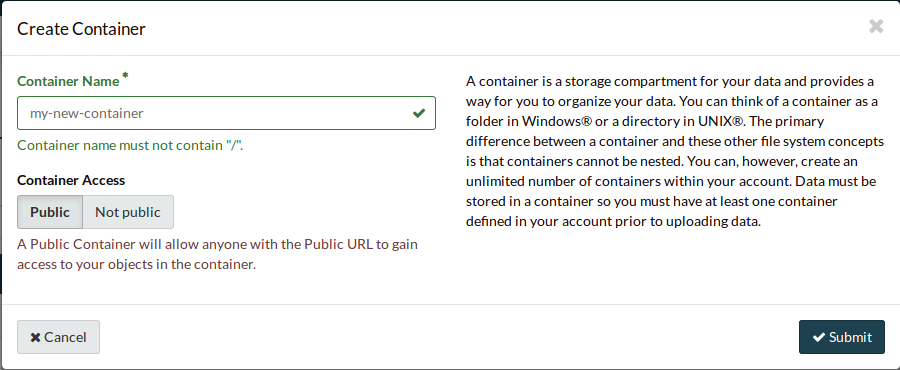
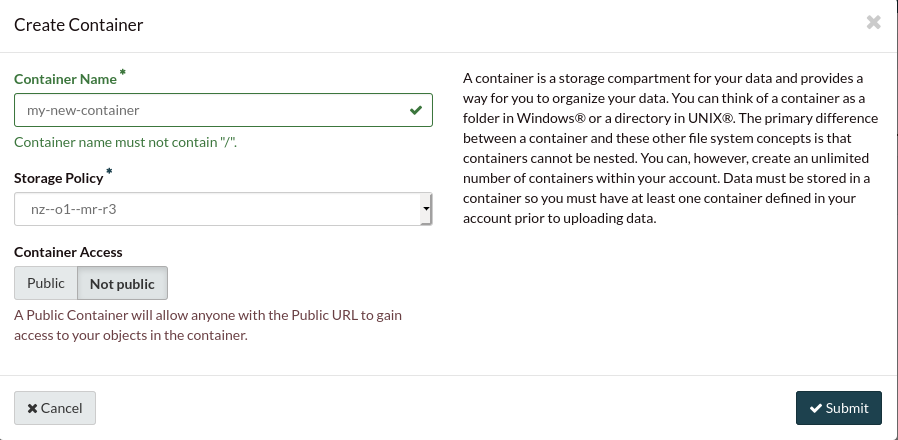
added dashboard example for replication policy object storage

diff --git a/source/object-storage/replication-policy.rst b/source/object-storage/replication-policy.rst
@@ -1,21 +1,23 @@
 ##################
-Replication policy
+Replication Policy
 ##################
 
-Any container you make through our object storage service has a default
-replication policy applied to it. This policy ensures that each container has
-three replicas, one held on each region of the Catalyst Cloud.
+When you create a container through the use of our object storage service, that
+container will have a replication policy applied to it. The default policy
+ensures that the container is replicated across all three regions of
+the Catalyst Cloud. This is done as a means to provide geographic diversity and
+security to your data in the event of a disaster affecting one of our regions.
 
 However, there are some scenarios where you may not need your data to be
-replicated across regions and you therefore wish to change this policy. Instead
-you can choose to have three replicas on a single region.
-This approach can save money, however it is less geographically diverse
-and therefore not as safe as the default policy.
+replicated across regions or you wish to save money on a cheaper policy. In
+this case you can choose a replication policy that keeps three replicas of your
+data in a single region instead of having them spread across all of them.
 
-Storage policies
-================
+What are the storage policies
+=============================
 
-The following storage classes exist on the Catalyst Cloud:
+The following are the storage policies available, each of these (as their names
+suggest) are related to one of the regions on the Catalyst cloud:
 
 +--------------------------+------------------+------------------------+
 | Storage class            | Failure-domain   | Replicas               |
@@ -29,18 +31,67 @@ The following storage classes exist on the Catalyst Cloud:
 | nz-hlz-1--o1--sr-r3      | Single-region    | 3 (all in one region)  |
 +--------------------------+------------------+------------------------+
 
-The storage class of a container is not yet visible nor configurable via the
-Catalyst dashboard. However you are still able to change the policy via the
-use of the command line tools.
+.. Warning::
+  You cannot change the storage policy of an already existing container. The
+  only way to change the policy of a container is during it's creation.
+
+There are two ways to create containers that use a single region policy. You
+can create your container via the Dashboard or through the use of the command
+line, both of which are detailed below.
+
+Dashboard method
+================
+
+It is now a required field when creating a container, to choose a replication
+policy. The following will go through the process of creating a new container
+via the dashboard and show you how to choose your replication policy.
+Firstly, navigate to the 'containers' section under the object storage tab.
+
+.. image:: assets/container-dash-screenshot-underline.png
+
+Once here, we're going to make a new container by clicking on the "+ container"
+button. The button will open up a new window that should look like this:
+
+.. image:: assets/create-container.png
+
+We'll give our container a name and in the storage policy tab below, we select
+the region that we want our replicas to be created in. As you can see, by
+default the multi-region option is selected, but for this example we'll choose
+policy for the Porirua region and then click submit. Something important to
+mention is even though the policy we have chosen uses the Porirua region for
+storing the replicas, you are still able to access this container from any of
+our regions.
+
+.. image:: assets/create-container-dropdown.png
+
+After you've created your container, it will function as normal. Unfortunately
+at present there is no way to tell via the dashboard what policy your
+containers have after they have been created. However, you can check your
+containers via the command line, which is detailed below.
+
+Command line method
+===================
 
 .. Note::
- Before continuing please ensure that you have sourced an OpenRC file for your
- project and that you have the Swift command line tools installed.
+ Before continuing please ensure that you have sourced an OpenRC file that
+ does not use MFA; otherwise the object storage API will not function
+ correctly. Additionally, ensure that you have the Swift command line tools
+ installed.
 
-Before we create our new container, we need to find out the storage URL and
-Auth token so that we can curl the object storage api. After we have these, we
-are going to create a container with the new single region policy applied to
-it.
+The following is a tutorial that will show you how to create a container that
+has a single region replication policy. Then we will upload a test file to the
+container and check via the command line if the region policy is working
+correctly.
+
+Before we create our new container, we need to find out our storage URL and
+Auth token. These will allow us to 'curl' the object storage API. After we have
+both of these, we can construct a curl command to create our new single
+region container. In this example we will use the Wellington region.
+
+.. Note::
+  Even if a container only uses a single region for it's replication policy,
+  you are still able to access the container from any region on the Catalyst
+  Cloud.
 
 .. code-block:: bash
 
@@ -77,9 +128,12 @@ it.
     $ export token="gAAAAABdwJ5KkgWpKIHN_4xaFxkqPpvivOO2Qc4kavx832WC3GNws74icYXvzGUQy7eHxkSgbSpbPzj-j2PikiY6KmbwaqFdlStRSUXbmW0ZR6edoKzw8fDy7FXedR1kWR-j83HQfICzw802Z1zbnZw1Tho7F6vDVo5OEyQw6ORQTSINl6diBD4"
     $ export policy="nz-wlg-2--o1--sr-r3"
 
-    # To create a container with a non-default policy we have to specify our
-    # policy when we use the curl command.
-    # Make sure that you end the storage url with  "/name of the container"
+To create a container with a non-default policy we have to specify which
+policy we want to use in our curl command. Make sure that you end the storage
+url with "/name-of-the-container" In this example we are creating a container
+called "cont-pol"
+
+.. code-block:: bash
 
     $ curl -v -X PUT -H "X-Auth-Token: $token" -H "X-Storage-Policy: $policy" $storageURL/cont-pol
 
@@ -98,12 +152,12 @@ it.
     < Content-Length: 0
     < X-Trans-Id: tx77ee63a2009c4dbc863c8-005dd72193
 
-    <
+    <.. code-block:: bash
     * Connection #0 to host object-storage.nz-wlg-2.catalystcloud.io left intact
 
 Next we are going to put a file in our new container. You can either create a
 file and upload it or you can upload an existing file from your working
-directory.
+directory; in our case we will use a file called "file1.txt"
 
 .. code-block:: bash
 
